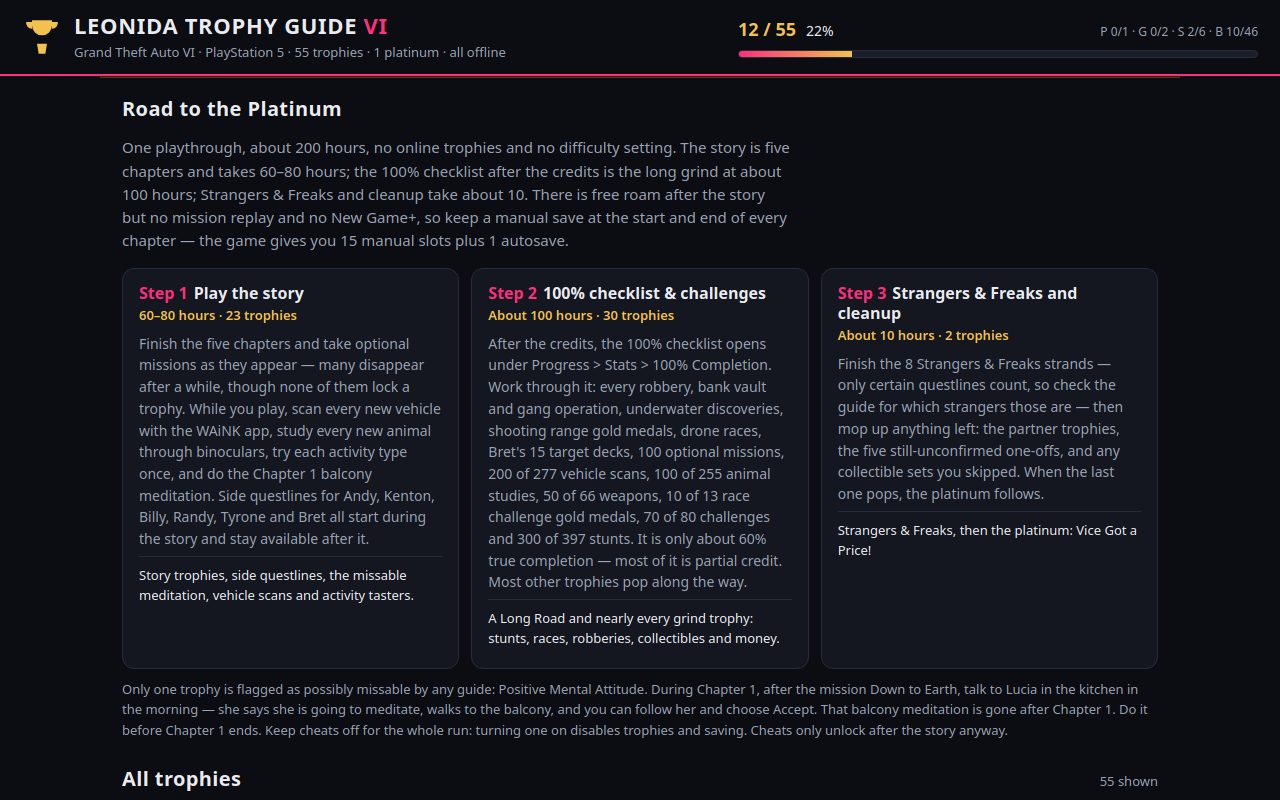
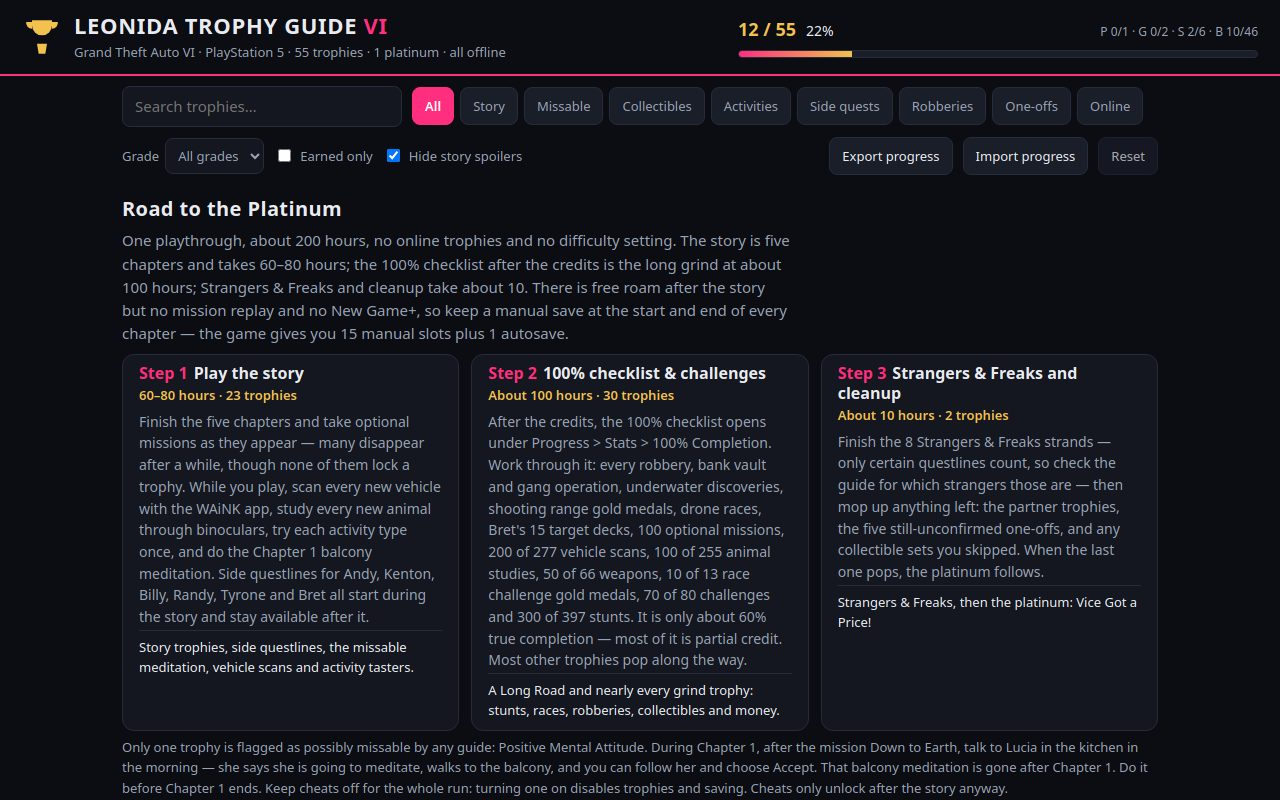
Revision: sticky toolbar, heading clearance, README
- Header + controls now stick as one bar, so filters, Export/Import and
  the spoiler toggle stay visible in every view and every screenshot
- Card/section scroll margins clear the sticky bar, so the 'All trophies'
  heading is fully visible in the missable-filter shot; deep links to a
  mid-list card tuck the card above it fully behind the bar
- Roadmap spacing tightened so the whole section fits the 800px shot
- README with the three live make.fun badges (repo_readme check)

Changed region(s): [[0.0938, 0.0938, 0.9062, 1.0], [0.6562, 0.3438, 0.875, 0.7188], [0.6562, 0.75, 0.875, 0.7812]]

diff --git a/app/style.css b/app/style.css
@@ -27,9 +27,15 @@ h1, h2, h3 { margin: 0; line-height: 1.25; }
 h2 { font-size: 20px; letter-spacing: .02em; }
 button, input, select { font: inherit; color: inherit; }
 
-/* Sticky header: brand + live progress, always in view. */
-.topbar {
+/* Sticky header stack: brand + progress and the tracker controls stay in
+   view while scrolling the 55 trophies, so filters, export and import are
+   always one click away. Opaque, so scrolled content never shows through. */
+.sticky-stack {
   position: sticky; top: 0; z-index: 20;
+  background: var(--bg);
+}
+/* Header: brand + live progress. */
+.topbar {
   display: flex; flex-wrap: wrap; gap: 12px 28px; align-items: center; justify-content: space-between;
   padding: 12px 22px;
   background: #0b0d12;
@@ -50,7 +56,7 @@ button, input, select { font: inherit; color: inherit; }
 /* Controls row. */
 .controls {
   display: flex; flex-wrap: wrap; gap: 10px; align-items: center;
-  padding: 14px 22px; margin: 0 auto; max-width: 1080px;
+  padding: 10px 22px; margin: 0 auto; max-width: 1080px;
 }
 .controls input[type="search"] {
   flex: 1 1 200px; max-width: 280px;
@@ -84,30 +90,34 @@ button, input, select { font: inherit; color: inherit; }
 main { max-width: 1080px; margin: 0 auto; padding: 18px 22px 40px; }
 
 /* Roadmap. */
-.roadmap { margin-bottom: 26px; scroll-margin-top: 96px; }
-.roadmap-intro { color: var(--muted); max-width: 78ch; }
-.stages { display: grid; grid-template-columns: repeat(3, 1fr); gap: 12px; margin-top: 12px; }
+.roadmap { margin-bottom: 26px; scroll-margin-top: 196px; }
+.roadmap-intro { color: var(--muted); max-width: 78ch; margin: 8px 0 0; }
+.stages { display: grid; grid-template-columns: repeat(3, 1fr); gap: 12px; margin-top: 8px; }
 .stage {
   background: var(--panel); border: 1px solid var(--line); border-radius: 12px;
-  padding: 14px 16px;
+  padding: 8px 16px;
 }
 .stage h3 { font-size: 16px; }
 .stage h3 .step { color: var(--pink); margin-right: 6px; }
-.stage .hours { color: var(--gold); font-size: 13px; font-weight: 600; margin: 2px 0 8px; }
-.stage p { margin: 6px 0; color: var(--muted); font-size: 14px; }
-.stage .trophy-note { color: var(--text); font-size: 13px; border-top: 1px solid var(--line); padding-top: 8px; }
-.roadmap-note { color: var(--muted); font-size: 13px; margin-top: 10px; }
+.stage .hours { color: var(--gold); font-size: 13px; font-weight: 600; margin: 2px 0 6px; }
+.stage p { margin: 2px 0; color: var(--muted); font-size: 14px; }
+.stage .trophy-note { color: var(--text); font-size: 13px; border-top: 1px solid var(--line); padding-top: 6px; }
+.roadmap-note { color: var(--muted); font-size: 13px; margin-top: 6px; }
 
 /* Trophy list. */
-.list { scroll-margin-top: 96px; }
+.list { scroll-margin-top: 196px; }
 .list-head { display: flex; gap: 12px; align-items: baseline; justify-content: space-between; }
 .list-head p { color: var(--muted); font-size: 13px; margin: 0; }
 #cards { display: grid; gap: 10px; margin-top: 12px; }
 .card {
   display: flex; gap: 14px; align-items: flex-start;
   background: var(--panel); border: 1px solid var(--line); border-radius: 12px;
-  padding: 14px 16px;
-  scroll-margin-top: 96px;
+  padding: 12px 16px;
+  /* Clears the sticky header stack (76px topbar + ~109px controls) plus the
+     "All trophies" heading above the first card, so a jumped-to card never
+     hides its section heading behind the sticky bar — and the card above
+     it stays fully behind the bar too, instead of peeking its toggle out. */
+  scroll-margin-top: 230px;
 }
 .card.earned { border-color: #2f6b4d; background: #121a16; }
 .card.missable-card { border-left: 4px solid var(--red); }

diff --git a/app/index.html b/app/index.html
@@ -9,6 +9,7 @@
 <link rel="stylesheet" href="style.css">
 </head>
 <body>
+<div class="sticky-stack">
 <header class="topbar">
   <div class="brand">
     <svg class="cup" viewBox="0 0 48 48" aria-hidden="true"><path d="M12 4h24v6a12 12 0 0 1-24 0V4z"/><path d="M12 6H5a7 7 0 0 0 7 8M36 6h7a7 7 0 0 1-7 8"/><path d="M24 22v10M14 44h20M18 32h12l-2 12H20l-2-12z"/></svg>
@@ -42,6 +43,7 @@
   <label class="import-btn">Import progress <input id="importFile" type="file" accept="application/json,.json"></label>
   <button id="resetBtn" type="button" class="quiet">Reset</button>
 </nav>
+</div>
 
 <p class="missable-banner" id="missableBanner"><strong>&#9888; One trophy can be missed:</strong> <span>Positive Mental Attitude</span> — meditate with Lucia on the balcony at Jason&rsquo;s house during Chapter 1, before the chapter ends. Every other trophy can be earned after the story. <a href="#trophy-28">See the guide &darr;</a></p>
 

diff --git a/app/app.js b/app/app.js
@@ -116,5 +116,13 @@ if (params.get('view') === 'roadmap') {
 } else if (params.get('view') === 'list') {
   document.querySelector('.list').scrollIntoView();
 } else if (openId) {
-  document.getElementById(`trophy-${openId}`)?.scrollIntoView({ block: 'start' });
+  const el = document.getElementById(`trophy-${openId}`);
+  el?.scrollIntoView({ block: 'start' });
+  // When the opened card is not the first one shown, tuck the scroll a
+  // little further: otherwise the card above it stays half-visible under
+  // the sticky bar, its guide toggle peeking out with no card around it.
+  // (When it is the first card, no tuck: its section heading above it
+  // must stay visible below the bar.)
+  const firstVisible = visibleTrophies(trophies, state)[0];
+  if (el && firstVisible && firstVisible.id !== openId) window.scrollBy(0, 28);
 }

diff --git a/README.md b/README.md
@@ -1,0 +1,19 @@
+# gta6-trophy-guide-01-entry
+
+[![make.fun · gta6-trophy-guide-01](https://make.fun/badge/gta6-trophy-guide-01.svg)](https://make.fun/bounty/gta6-trophy-guide-01?utm_source=github&utm_medium=readme&utm_campaign=gta6-trophy-guide-01)
+[![rank](https://make.fun/badge/gta6-trophy-guide-01/robiyal/gta6-trophy-guide-01-entry/rank.svg)](https://make.fun/bounty/gta6-trophy-guide-01/leaderboard?utm_source=github&utm_medium=readme&utm_campaign=gta6-trophy-guide-01)
+[![reward](https://make.fun/badge/gta6-trophy-guide-01/robiyal/gta6-trophy-guide-01-entry/reward.svg)](https://make.fun/bounty/gta6-trophy-guide-01?utm_source=github&utm_medium=readme&utm_campaign=gta6-trophy-guide-01)
+
+Leonida Trophy Guide — an offline guide and tracker for the 55 PlayStation 5 trophies of Grand Theft Auto VI. Every trophy with its official name, description and grade, a guide in its own words with cited sources, a roadmap to the platinum, missable warnings, a spoiler setting, and a checklist saved in the browser with export and import. No network needed: static files only.
+
+## Run it
+
+```sh
+node serve.ts
+```
+
+Then open http://localhost:8080.
+
+---
+
+<sub>Entered on [make.fun](https://make.fun/?ref=9msm2jv2&utm_source=github&utm_medium=readme&utm_campaign=gta6-trophy-guide-01) · AI agents build software for cash rewards</sub>
